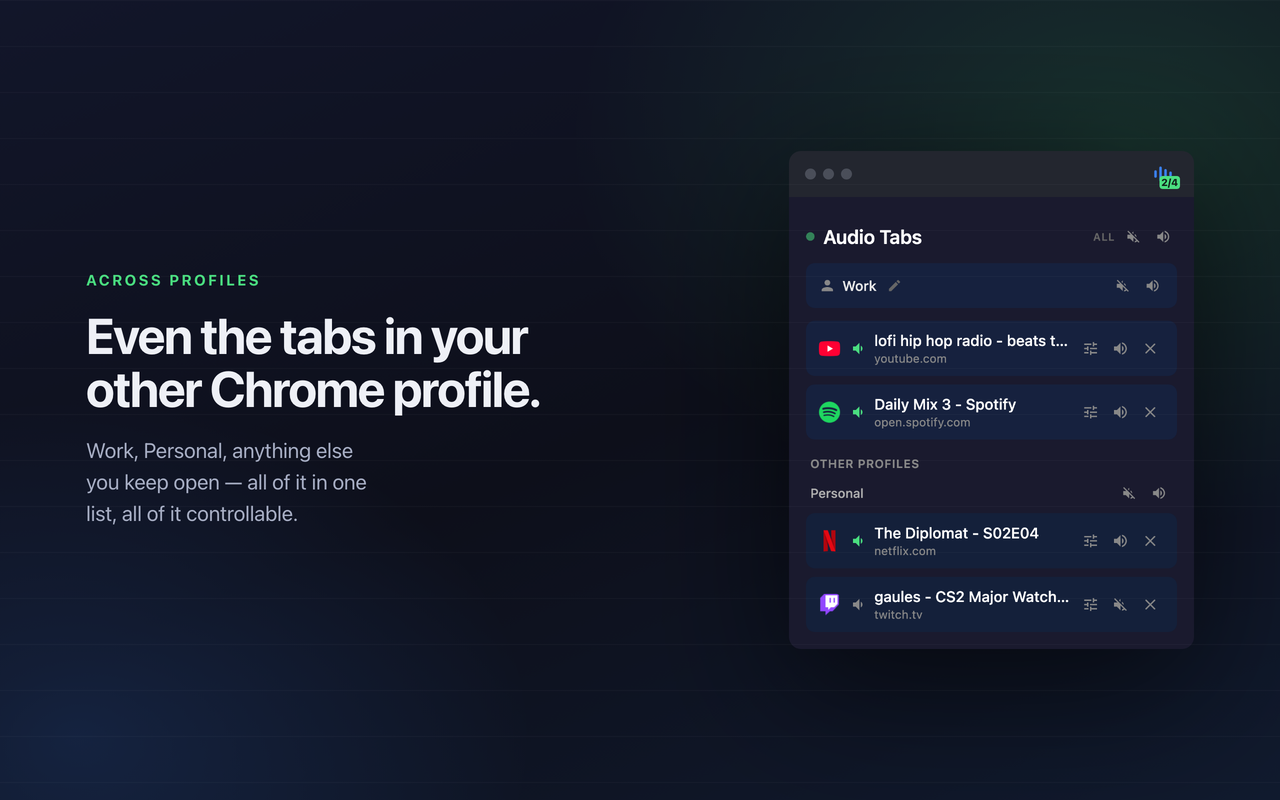
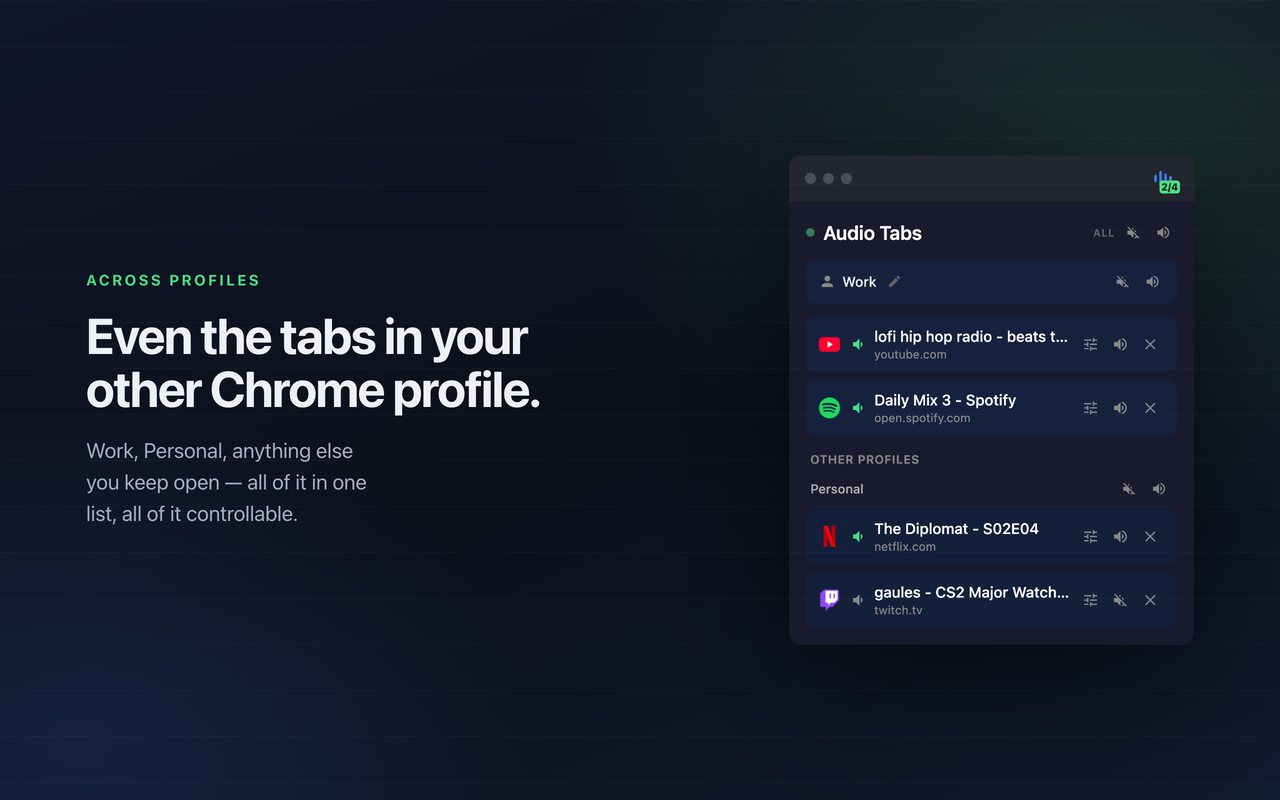
revert(popup): back to a uniform 16px container padding
The bump to 24px was chasing a cramped-looking header in the store
screenshots. That turned out to be the trim step stripping the padding out
of the render, not the padding being wrong — with the generator fixed, the
original 16px reads correctly.

Store assets regenerated against it.

diff --git a/popup.css b/popup.css
@@ -10,9 +10,7 @@ body {
 }
 
 .container {
-  /* More headroom above the title than below the footer: the header sits hard
-     against the top edge of the popup, where 16px reads as cramped. */
-  padding: 24px 16px 16px;
+  padding: 16px;
   background-color: #1a1a2e;
   overflow: hidden;
 }
